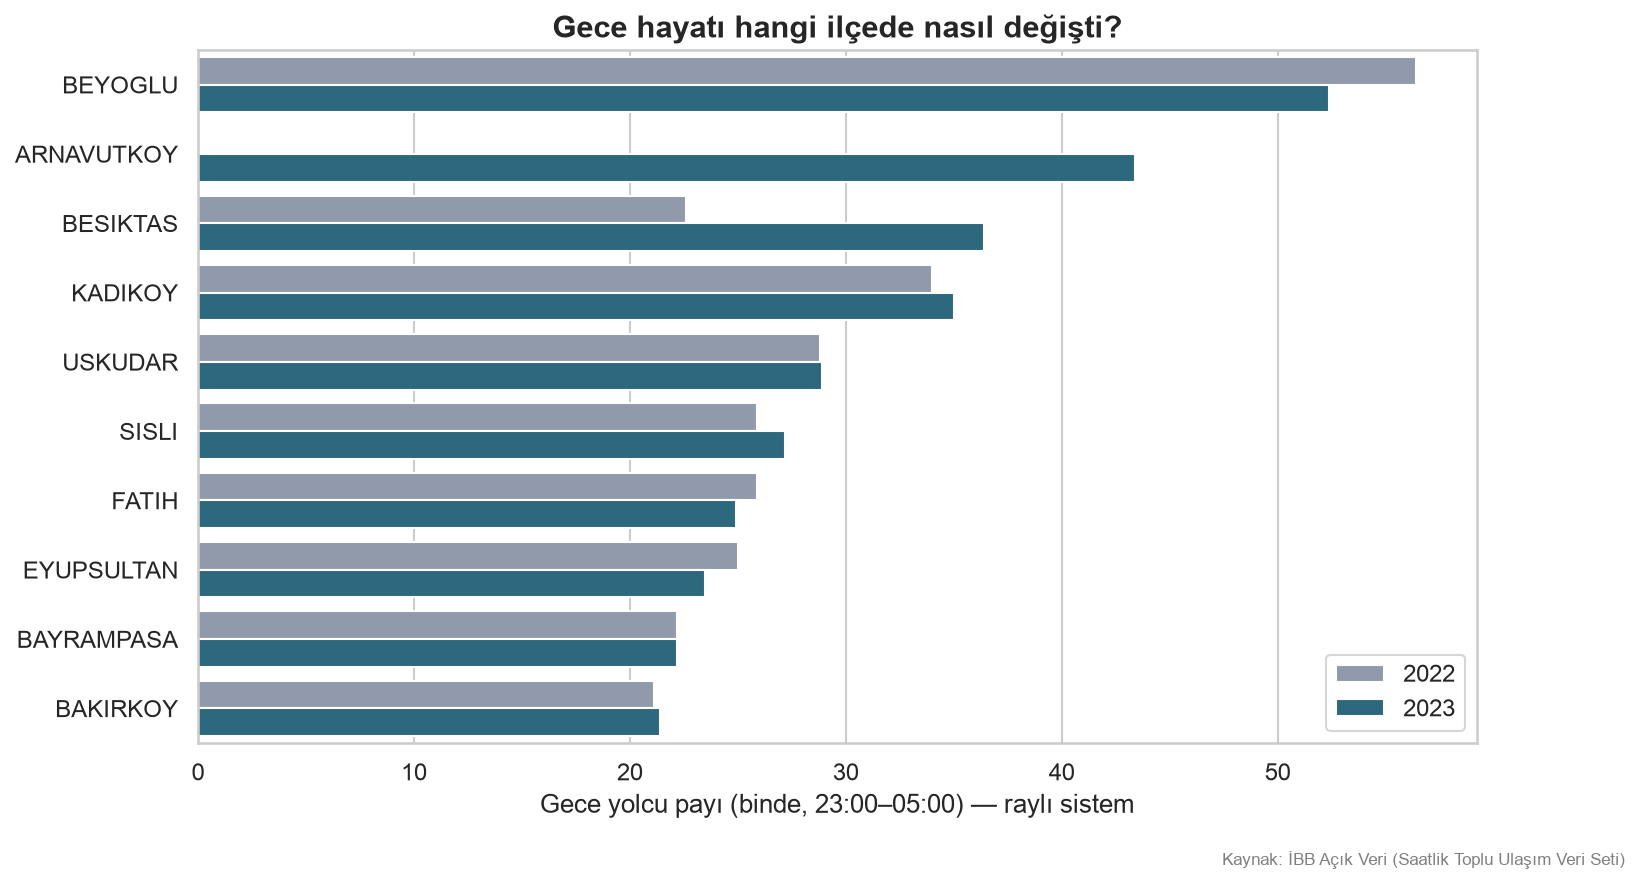
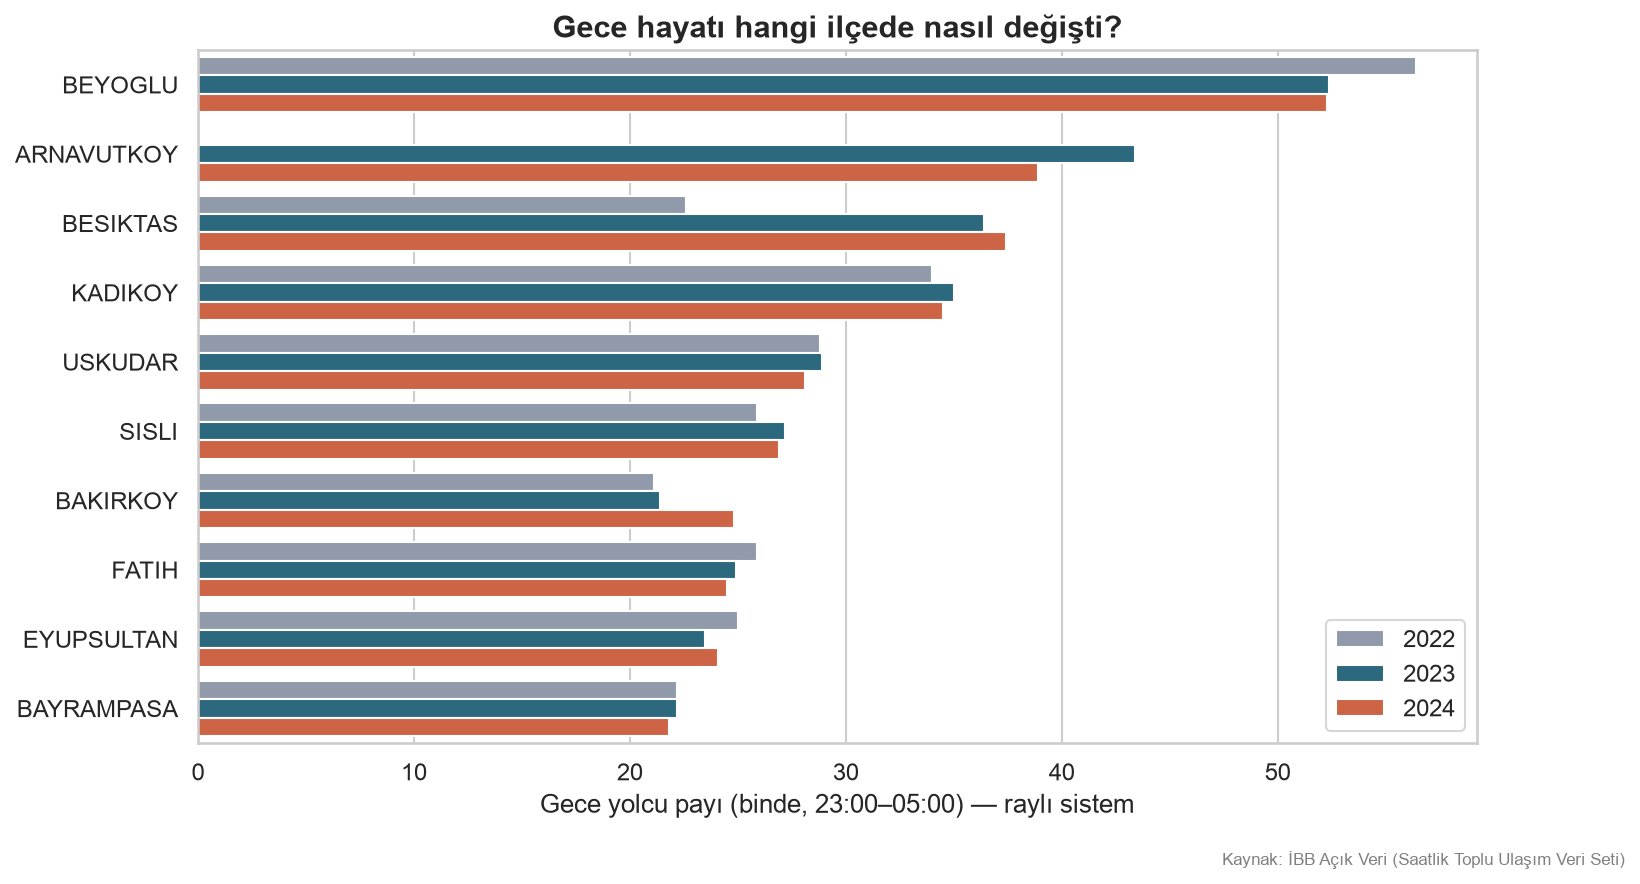
2024 Ocak-Temmuz analizi: 7 ay işlendi, kıyaslar 3 yıllı, anomali etiket şaşırtması

Changed region(s): [[0.1244, 0.0611, 0.8707, 0.3665], [0.0, 0.3971, 0.4976, 0.8552], [0.8085, 0.7025, 0.9018, 0.8247]]

diff --git a/ciktilar/haritalar/ilce_saatlik_nabiz_2024.html b/ciktilar/haritalar/ilce_saatlik_nabiz_2024.html
@@ -1,0 +1,11 @@
+<html>
+<head><meta charset="utf-8" /></head>
+<body>
+    <div style="height:100%; width:100%;">                        <script>window.PlotlyConfig = {MathJaxConfig: 'local'};</script>
+        <script charset="utf-8" src="https://cdn.plot.ly/plotly-3.6.0.min.js" integrity="sha256-QaOVwtVY0T02VaHrr6pnoHLCwayMJp4O5n4YyaE3rJk=" crossorigin="anonymous"></script>                <div id="b7a8ee50-9e38-4581-9469-4322178149d8" class="plotly-graph-div" style="height:100%; width:100%;"></div>            <script>                window.PLOTLYENV=window.PLOTLYENV || {};                                if (document.getElementById("b7a8ee50-9e38-4581-9469-4322178149d8")) {                    Plotly.newPlot(                        "b7a8ee50-9e38-4581-9469-4322178149d8",                        [{"hovertemplate":"Saat=0\u003cbr\u003eOrtalama yolcu (hafta i\u00e7i)=%{x}\u003cbr\u003e=%{y}\u003cextra\u003e\u003c\u002fextra\u003e","legendgroup":"","marker":{"color":"#636efa","pattern":{"shape":""}},"name":"","orientation":"h","showlegend":false,"textposition":"auto","x":{"dtype":"f8","bdata":"LS0tLS2diECJ3jOJ3rN+QAUFBQUFlXhAs10Is12od0DuQpjtQsh2QAAAAAAAgGZAwBVrwBWLZUDn5ubm5sZgQFNBqy8VdFtAWlpaWlraWkDzR53yR51YQKf8Uaf8EVhA1Cl\u002f1Cn\u002fUkCXlpaWlpZKQA=="},"xaxis":"x","y":["FATIH","SISLI","USKUDAR","BAKIRKOY","BEYOGLU","ZEYTINBURNU","KADIKOY","BAYRAMPASA","UMRANIYE","BAGCILAR","GUNGOREN","PENDIK","MALTEPE","KARTAL"],"yaxis":"y","type":"bar"}],                        {"template":{"data":{"histogram2dcontour":[{"type":"histogram2dcontour","colorbar":{"outlinewidth":0,"ticks":""},"colorscale":[[0.0,"#0d0887"],[0.1111111111111111,"#46039f"],[0.2222222222222222,"#7201a8"],[0.3333333333333333,"#9c179e"],[0.4444444444444444,"#bd3786"],[0.5555555555555556,"#d8576b"],[0.6666666666666666,"#ed7953"],[0.7777777777777778,"#fb9f3a"],[0.8888888888888888,"#fdca26"],[1.0,"#f0f921"]]}],"choropleth":[{"type":"choropleth","colorbar":{"outlinewidth":0,"ticks":""}}],"histogram2d":[{"type":"histogram2d","colorbar":{"outlinewidth":0,"ticks":""},"colorscale":[[0.0,"#0d0887"],[0.1111111111111111,"#46039f"],[0.2222222222222222,"#7201a8"],[0.3333333333333333,"#9c179e"],[0.4444444444444444,"#bd3786"],[0.5555555555555556,"#d8576b"],[0.6666666666666666,"#ed7953"],[0.7777777777777778,"#fb9f3a"],[0.8888888888888888,"#fdca26"],[1.0,"#f0f921"]]}],"heatmap":[{"type":"heatmap","colorbar":{"outlinewidth":0,"ticks":""},"colorscale":[[0.0,"#0d0887"],[0.1111111111111111,"#46039f"],[0.2222222222222222,"#7201a8"],[0.3333333333333333,"#9c179e"],[0.4444444444444444,"#bd3786"],[0.5555555555555556,"#d8576b"],[0.6666666666666666,"#ed7953"],[0.7777777777777778,"#fb9f3a"],[0.8888888888888888,"#fdca26"],[1.0,"#f0f921"]]}],"contourcarpet":[{"type":"contourcarpet","colorbar":{"outlinewidth":0,"ticks":""}}],"contour":[{"type":"contour","colorbar":{"outlinewidth":0,"ticks":""},"colorscale":[[0.0,"#0d0887"],[0.1111111111111111,"#46039f"],[0.2222222222222222,"#7201a8"],[0.3333333333333333,"#9c179e"],[0.4444444444444444,"#bd3786"],[0.5555555555555556,"#d8576b"],[0.6666666666666666,"#ed7953"],[0.7777777777777778,"#fb9f3a"],[0.8888888888888888,"#fdca26"],[1.0,"#f0f921"]]}],"surface":[{"type":"surface","colorbar":{"outlinewidth":0,"ticks":""},"colorscale":[[0.0,"#0d0887"],[0.1111111111111111,"#46039f"],[0.2222222222222222,"#7201a8"],[0.3333333333333333,"#9c179e"],[0.4444444444444444,"#bd3786"],[0.5555555555555556,"#d8576b"],[0.6666666666666666,"#ed7953"],[0.7777777777777778,"#fb9f3a"],[0.8888888888888888,"#fdca26"],[1.0,"#f0f921"]]}],"mesh3d":[{"type":"mesh3d","colorbar":{"outlinewidth":0,"ticks":""}}],"scatter":[{"fillpattern":{"fillmode":"overlay","size":10,"solidity":0.2},"type":"scatter"}],"parcoords":[{"type":"parcoords","line":{"colorbar":{"outlinewidth":0,"ticks":""}}}],"scatterpolargl":[{"type":"scatterpolargl","marker":{"colorbar":{"outlinewidth":0,"ticks":""}}}],"bar":[{"error_x":{"color":"#2a3f5f"},"error_y":{"color":"#2a3f5f"},"marker":{"line":{"color":"#E5ECF6","width":0.5},"pattern":{"fillmode":"overlay","size":10,"solidity":0.2}},"type":"bar"}],"scattergeo":[{"type":"scattergeo","marker":{"colorbar":{"outlinewidth":0,"ticks":""}}}],"scatterpolar":[{"type":"scatterpolar","marker":{"colorbar":{"outlinewidth":0,"ticks":""}}}],"histogram":[{"marker":{"pattern":{"fillmode":"overlay","size":10,"solidity":0.2}},"type":"histogram"}],"scattergl":[{"type":"scattergl","marker":{"colorbar":{"outlinewidth":0,"ticks":""}}}],"scatter3d":[{"type":"scatter3d","line":{"colorbar":{"outlinewidth":0,"ticks":""}},"marker":{"colorbar":{"outlinewidth":0,"ticks":""}}}],"scattermap":[{"type":"scattermap","marker":{"colorbar":{"outlinewidth":0,"ticks":""}}}],"scattermapbox":[{"type":"scattermapbox","marker":{"colorbar":{"outlinewidth":0,"ticks":""}}}],"scatterternary":[{"type":"scatterternary","marker":{"colorbar":{"outlinewidth":0,"ticks":""}}}],"scattercarpet":[{"type":"scattercarpet","marker":{"colorbar":{"outlinewidth":0,"ticks":""}}}],"carpet":[{"aaxis":{"endlinecolor":"#2a3f5f","gridcolor":"white","linecolor":"white","minorgridcolor":"white","startlinecolor":"#2a3f5f"},"baxis":{"endlinecolor":"#2a3f5f","gridcolor":"white","linecolor":"white","minorgridcolor":"white","startlinecolor":"#2a3f5f"},"type":"carpet"}],"table":[{"cells":{"fill":{"color":"#EBF0F8"},"line":{"color":"white"}},"header":{"fill":{"color":"#C8D4E3"},"line":{"color":"white"}},"type":"table"}],"barpolar":[{"marker":{"line":{"color":"#E5ECF6","width":0.5},"pattern":{"fillmode":"overlay","size":10,"solidity":0.2}},"type":"barpolar"}],"pie":[{"automargin":true,"type":"pie"}]},"layout":{"autotypenumbers":"strict","colorway":["#636efa","#EF553B","#00cc96","#ab63fa","#FFA15A","#19d3f3","#FF6692","#B6E880","#FF97FF","#FECB52"],"font":{"color":"#2a3f5f"},"hovermode":"closest","hoverlabel":{"align":"left"},"paper_bgcolor":"white","plot_bgcolor":"#E5ECF6","polar":{"bgcolor":"#E5ECF6","angularaxis":{"gridcolor":"white","linecolor":"white","ticks":""},"radialaxis":{"gridcolor":"white","linecolor":"white","ticks":""}},"ternary":{"bgcolor":"#E5ECF6","aaxis":{"gridcolor":"white","linecolor":"white","ticks":""},"baxis":{"gridcolor":"white","linecolor":"white","ticks":""},"caxis":{"gridcolor":"white","linecolor":"white","ticks":""}},"coloraxis":{"colorbar":{"outlinewidth":0,"ticks":""}},"colorscale":{"sequential":[[0.0,"#0d0887"],[0.1111111111111111,"#46039f"],[0.2222222222222222,"#7201a8"],[0.3333333333333333,"#9c179e"],[0.4444444444444444,"#bd3786"],[0.5555555555555556,"#d8576b"],[0.6666666666666666,"#ed7953"],[0.7777777777777778,"#fb9f3a"],[0.8888888888888888,"#fdca26"],[1.0,"#f0f921"]],"sequentialminus":[[0.0,"#0d0887"],[0.1111111111111111,"#46039f"],[0.2222222222222222,"#7201a8"],[0.3333333333333333,"#9c179e"],[0.4444444444444444,"#bd3786"],[0.5555555555555556,"#d8576b"],[0.6666666666666666,"#ed7953"],[0.7777777777777778,"#fb9f3a"],[0.8888888888888888,"#fdca26"],[1.0,"#f0f921"]],"diverging":[[0,"#8e0152"],[0.1,"#c51b7d"],[0.2,"#de77ae"],[0.3,"#f1b6da"],[0.4,"#fde0ef"],[0.5,"#f7f7f7"],[0.6,"#e6f5d0"],[0.7,"#b8e186"],[0.8,"#7fbc41"],[0.9,"#4d9221"],[1,"#276419"]]},"xaxis":{"gridcolor":"white","linecolor":"white","ticks":"","title":{"standoff":15},"zerolinecolor":"white","automargin":true,"zerolinewidth":2},"yaxis":{"gridcolor":"white","linecolor":"white","ticks":"","title":{"standoff":15},"zerolinecolor":"white","automargin":true,"zerolinewidth":2},"scene":{"xaxis":{"backgroundcolor":"#E5ECF6","gridcolor":"white","linecolor":"white","showbackground":true,"ticks":"","zerolinecolor":"white","gridwidth":2},"yaxis":{"backgroundcolor":"#E5ECF6","gridcolor":"white","linecolor":"white","showbackground":true,"ticks":"","zerolinecolor":"white","gridwidth":2},"zaxis":{"backgroundcolor":"#E5ECF6","gridcolor":"white","linecolor":"white","showbackground":true,"ticks":"","zerolinecolor":"white","gridwidth":2}},"shapedefaults":{"line":{"color":"#2a3f5f"}},"annotationdefaults":{"arrowcolor":"#2a3f5f","arrowhead":0,"arrowwidth":1},"geo":{"bgcolor":"white","landcolor":"#E5ECF6","subunitcolor":"white","showland":true,"showlakes":true,"lakecolor":"white"},"title":{"x":0.05},"mapbox":{"style":"light"}}},"xaxis":{"anchor":"y","domain":[0.0,1.0],"title":{"text":"Ortalama yolcu (hafta i\u00e7i)"},"range":[0,65380.78921568628]},"yaxis":{"anchor":"x","domain":[0.0,1.0],"title":{"text":""},"categoryorder":"total ascending"},"legend":{"tracegroupgap":0},"title":{"text":"\u0130l\u00e7e il\u00e7e \u015fehrin nabz\u0131, 2024 \u2014 saat kayd\u0131rac\u0131n\u0131 oynat (rayl\u0131 sistem)"},"barmode":"relative","updatemenus":[{"buttons":[{"args":[null,{"frame":{"duration":500,"redraw":true},"mode":"immediate","fromcurrent":true,"transition":{"duration":500,"easing":"linear"}}],"label":"&#9654;","method":"animate"},{"args":[[null],{"frame":{"duration":0,"redraw":true},"mode":"immediate","fromcurrent":true,"transition":{"duration":0,"easing":"linear"}}],"label":"&#9724;","method":"animate"}],"direction":"left","pad":{"r":10,"t":70},"showactive":false,"type":"buttons","x":0.1,"xanchor":"right","y":0,"yanchor":"top"}],"sliders":[{"active":0,"currentvalue":{"prefix":"Saat="},"len":0.9,"pad":{"b":10,"t":60},"steps":[{"args":[["0"],{"frame":{"duration":0,"redraw":true},"mode":"immediate","fromcurrent":true,"transition":{"duration":0,"easing":"linear"}}],"label":"0","method":"animate"},{"args":[["1"],{"frame":{"duration":0,"redraw":true},"mode":"immediate","fromcurrent":true,"transition":{"duration":0,"easing":"linear"}}],"label":"1","method":"animate"},{"args":[["2"],{"frame":{"duration":0,"redraw":true},"mode":"immediate","fromcurrent":true,"transition":{"duration":0,"easing":"linear"}}],"label":"2","method":"animate"},{"args":[["3"],{"frame":{"duration":0,"redraw":true},"mode":"immediate","fromcurrent":true,"transition":{"duration":0,"easing":"linear"}}],"label":"3","method":"animate"},{"args":[["4"],{"frame":{"duration":0,"redraw":true},"mode":"immediate","fromcurrent":true,"transition":{"duration":0,"easing":"linear"}}],"label":"4","method":"animate"},{"args":[["5"],{"frame":{"duration":0,"redraw":true},"mode":"immediate","fromcurrent":true,"transition":{"duration":0,"easing":"linear"}}],"label":"5","method":"animate"},{"args":[["6"],{"frame":{"duration":0,"redraw":true},"mode":"immediate","fromcurrent":true,"transition":{"duration":0,"easing":"linear"}}],"label":"6","method":"animate"},{"args":[["7"],{"frame":{"duration":0,"redraw":true},"mode":"immediate","fromcurrent":true,"transition":{"duration":0,"easing":"linear"}}],"label":"7","method":"animate"},{"args":[["8"],{"frame":{"duration":0,"redraw":true},"mode":"immediate","fromcurrent":true,"transition":{"duration":0,"easing":"linear"}}],"label":"8","method":"animate"},{"args":[["9"],{"frame":{"duration":0,"redraw":true},"mode":"immediate","fromcurrent":true,"transition":{"duration":0,"easing":"linear"}}],"label":"9","method":"animate"},{"args":[["10"],{"frame":{"duration":0,"redraw":true},"mode":"immediate","fromcurrent":true,"transition":{"duration":0,"easing":"linear"}}],"label":"10","method":"animate"},{"args":[["11"],{"frame":{"duration":0,"redraw":true},"mode":"immediate","fromcurrent":true,"transition":{"duration":0,"easing":"linear"}}],"label":"11","method":"animate"},{"args":[["12"],{"frame":{"duration":0,"redraw":true},"mode":"immediate","fromcurrent":true,"transition":{"duration":0,"easing":"linear"}}],"label":"12","method":"animate"},{"args":[["13"],{"frame":{"duration":0,"redraw":true},"mode":"immediate","fromcurrent":true,"transition":{"duration":0,"easing":"linear"}}],"label":"13","method":"animate"},{"args":[["14"],{"frame":{"duration":0,"redraw":true},"mode":"immediate","fromcurrent":true,"transition":{"duration":0,"easing":"linear"}}],"label":"14","method":"animate"},{"args":[["15"],{"frame":{"duration":0,"redraw":true},"mode":"immediate","fromcurrent":true,"transition":{"duration":0,"easing":"linear"}}],"label":"15","method":"animate"},{"args":[["16"],{"frame":{"duration":0,"redraw":true},"mode":"immediate","fromcurrent":true,"transition":{"duration":0,"easing":"linear"}}],"label":"16","method":"animate"},{"args":[["17"],{"frame":{"duration":0,"redraw":true},"mode":"immediate","fromcurrent":true,"transition":{"duration":0,"easing":"linear"}}],"label":"17","method":"animate"},{"args":[["18"],{"frame":{"duration":0,"redraw":true},"mode":"immediate","fromcurrent":true,"transition":{"duration":0,"easing":"linear"}}],"label":"18","method":"animate"},{"args":[["19"],{"frame":{"duration":0,"redraw":true},"mode":"immediate","fromcurrent":true,"transition":{"duration":0,"easing":"linear"}}],"label":"19","method":"animate"},{"args":[["20"],{"frame":{"duration":0,"redraw":true},"mode":"immediate","fromcurrent":true,"transition":{"duration":0,"easing":"linear"}}],"label":"20","method":"animate"},{"args":[["21"],{"frame":{"duration":0,"redraw":true},"mode":"immediate","fromcurrent":true,"transition":{"duration":0,"easing":"linear"}}],"label":"21","method":"animate"},{"args":[["22"],{"frame":{"duration":0,"redraw":true},"mode":"immediate","fromcurrent":true,"transition":{"duration":0,"easing":"linear"}}],"label":"22","method":"animate"},{"args":[["23"],{"frame":{"duration":0,"redraw":true},"mode":"immediate","fromcurrent":true,"transition":{"duration":0,"easing":"linear"}}],"label":"23","method":"animate"}],"x":0.1,"xanchor":"left","y":0,"yanchor":"top"}],"annotations":[{"font":{"color":"gray","size":10},"showarrow":false,"text":"Kaynak: \u0130BB A\u00e7\u0131k Veri (2024)","x":1,"xref":"paper","y":-0.12,"yref":"paper"}]},                        {"responsive": true}                    ).then(function(){
[1 lines of base64/hex data omitted]
+                        }).then(function(){
+                            Plotly.animate('b7a8ee50-9e38-4581-9469-4322178149d8', null);
+                        })                };            </script>        </div>
+</body>
+</html>

diff --git a/scriptler/make_figures.py b/scriptler/make_figures.py
@@ -58,8 +58,13 @@ OZEL_GUNLER = {
     2024: {
         "2024-01-01": "Yılbaşı",
         "2024-03-31": "Yerel seçim",
+        "2024-04-09": "Ramazan B. arifesi",
         "2024-04-10": "Ramazan Bayramı",
+        "2024-04-23": "23 Nisan",
+        "2024-05-01": "1 Mayıs",
+        "2024-06-15": "Kurban B. arifesi",
         "2024-06-16": "Kurban Bayramı",
+        "2024-06-17": "Kurban B. 2. günü",
     },
 }
 
@@ -175,6 +180,7 @@ def fig_04_anomali(con, yil):
     # Sözlükte adı olan her anomaliyi etiketle; kalanlardan en uç 6'ya tarih yaz
     en_uc = set(anomali.reindex(anomali["z"].abs()
                                 .sort_values(ascending=False).index).head(6).index)
+    sayac = 0
     for idx, r in anomali.iterrows():
         gun = str(r["transition_date"].date())
         if gun in ozel:
@@ -184,9 +190,13 @@ def fig_04_anomali(con, yil):
         else:
             continue
         yukari = r["z"] > 0
+        # ardışık etiketleri dikeyde şaşırt ki bayram kümeleri çakışmasın
+        kaydir = 11 * (sayac % 2)
+        sayac += 1
         ax.annotate(etiket, (r["transition_date"], r["z"]),
                     textcoords="offset points",
-                    xytext=(6, 8 if yukari else -14), fontsize=8)
+                    xytext=(6, (8 + kaydir) if yukari else (-14 - kaydir)),
+                    fontsize=8)
     ax.set_title(f"Hangi günler 'normal' değildi? ({yil})")
     ax.set_xlabel("")
     ax.set_ylabel("Z-skoru (aynı haftanın gününe göre)")

diff --git a/README.md b/README.md
@@ -1,9 +1,12 @@
 # Gece Haritası — İstanbul Saat Kaçta Nerede Yaşıyor?
 
 İBB Açık Veri Portalı'nın **Saatlik Toplu Ulaşım Veri Seti** ile İstanbul'un
-saatlik nabzını çıkaran bir veri analizi projesi. 2023'ün 12 ayı, **~190 milyon
-satır** ham CSV, DuckDB ile işlendi; şehrin ne zaman uyandığı, hangi ilçenin
-gece yaşadığı ve hangi günlerin "normal" olmadığı gerçek veriyle gösterildi.
+saatlik nabzını çıkaran bir veri analizi projesi. 2022'den 2024 Temmuz'una
+**31 ay, ~475 milyon satır** ham CSV, DuckDB ile işlendi; şehrin ne zaman
+uyandığı, hangi ilçenin gece yaşadığı, hangi günlerin "normal" olmadığı ve
+metro açılışlarının şehir ritmini nasıl değiştirdiği gerçek veriyle gösterildi.
+(Aşağıdaki tekil yıl grafikleri 2023'ündür; 2022 ve 2024 versiyonları
+`ciktilar/grafikler/` altında.)
 
 > **Tek cümlelik özet:** İBB'nin milyonlarca satırlık gerçek açık verisini
 > DuckDB ile işledim, window functions ile analiz ettim, İstanbul'un saatlik
@@ -118,9 +121,9 @@ Pipeline yıl-parametriktir: o yılın aylık CSV'lerini indirip aynı üç adı
 
 | Yıl | Durum |
 |-----|-------|
-| 2022 | 12 ay sağlam görünüyor → tam yıl ✅ |
-| 2023 | 12 ay doğrulandı ✅ (bu repodaki analiz) |
-| 2024 | Ocak–Temmuz sağlam; Ağustos+ bozuk → kısmi yıl |
+| 2022 | 12 ay doğrulandı ve işlendi ✅ |
+| 2023 | 12 ay doğrulandı ve işlendi ✅ |
+| 2024 | Ocak–Temmuz doğrulandı ve işlendi ✅; Ağustos+ portalda bozuk |
 | 2021 | Ekim dosyası bozuk → 11 ay |
 | 2020 | Pandemi yılı; dosyalar küçük ama muhtemelen gerçek (şehir durmuştu). `ingest`/`validate` eşiğini `--esik` ile düşürmek gerekebilir |
 